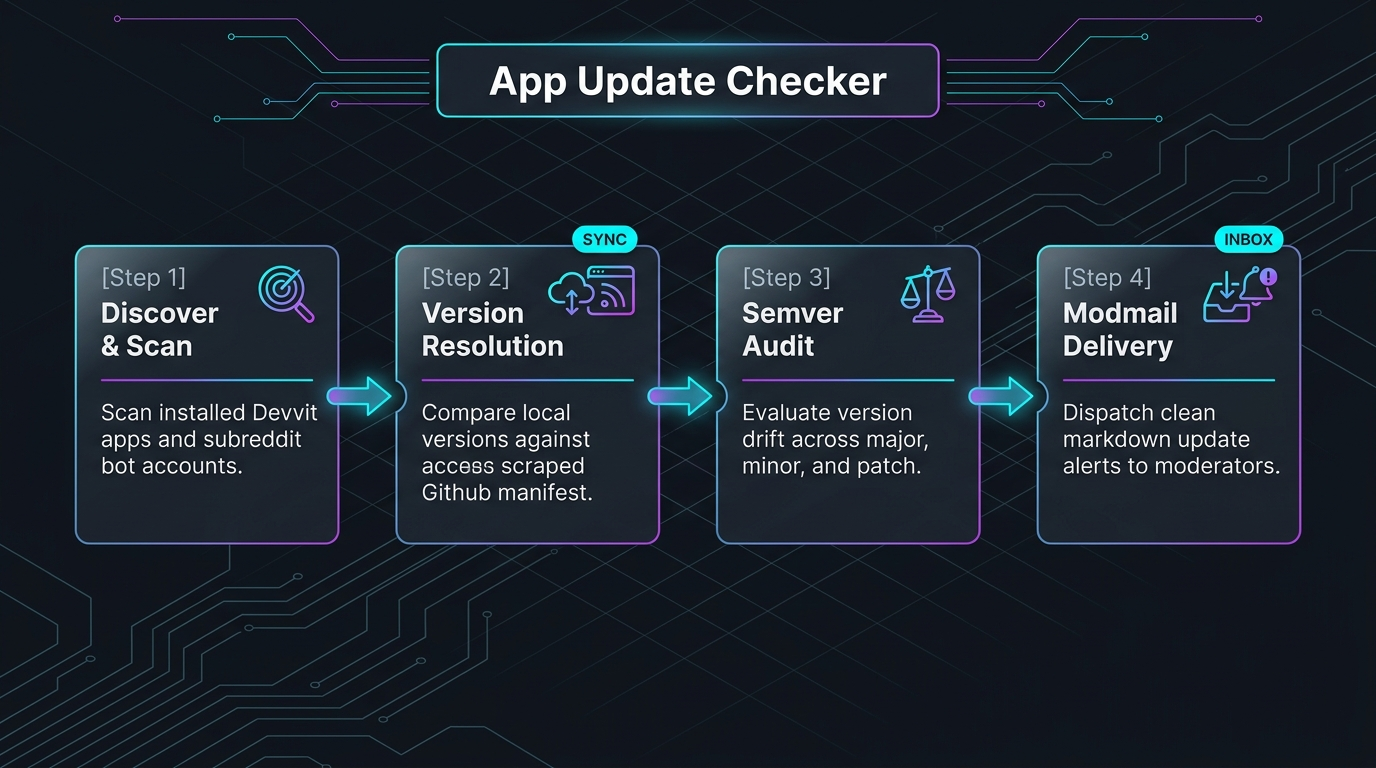
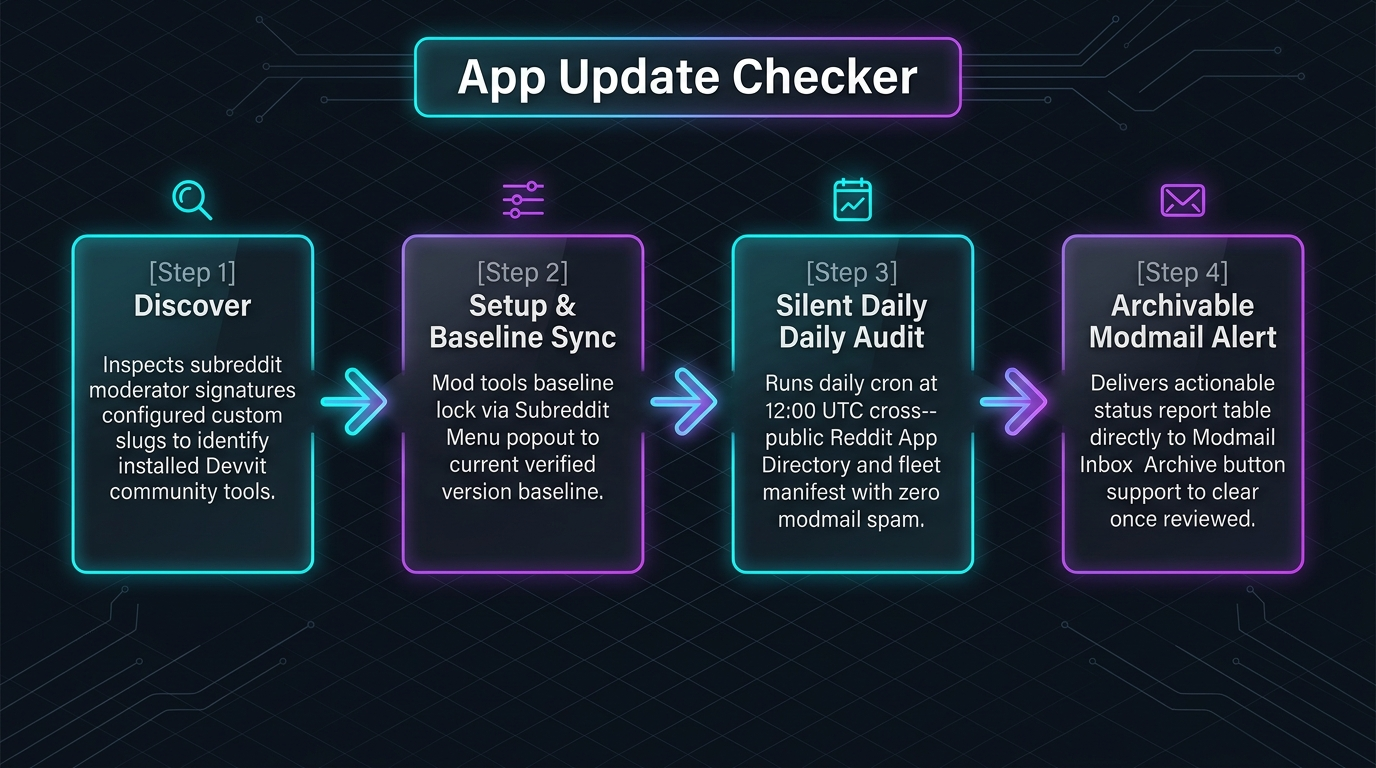
chore: update assets for app-update-checker v0.0.81

diff --git a/app-update-checker/readme.html b/app-update-checker/readme.html
@@ -13,7 +13,7 @@
 <li><strong>Automated backend directory scraper</strong>: Continuously monitors and extracts release versions from public Reddit App Directory listings into an up-to-date manifest feed.</li>
 <li><strong>Clear, verified onboarding</strong>: Guides your mod team to update apps in Mod Tools and sync baseline tracking on initial install.</li>
 <li><strong>Silent daily audits</strong>: Runs a lightweight background check every day at 12:00 UTC with zero modmail spam—alerts are sent only when a new update is published.</li>
-<li><strong>Modmail upgrade alerts</strong>: Delivers clean, text-formatted summary tables with direct links to update pages on the Reddit App Directory.</li>
+<li><strong>Archivable Modmail alerts</strong>: Delivers clean, text-formatted summary tables directly to your Modmail Inbox where they can be archived to keep your inbox clean.</li>
 <li><strong>Universal directory support</strong>: Cross-references against 150+ public apps in the Reddit App Directory and official developer manifests.</li>
 <li><strong>Consolidated moderator controls</strong>: Access on-demand scans, baseline syncing, and cache resets from a single <strong>App Update Checker</strong> menu popout.</li>
 </ul>
@@ -28,7 +28,7 @@
 <li><strong>Check for App Updates</strong>: Run an immediate scan and receive a full status report in Modmail.</li>
 <li><strong>Sync All Apps as Updated</strong>: Lock in current versions as the baseline after updating apps in Mod Tools.</li>
 <li><strong>Reset App Cache</strong>: Clear cached data and trigger a fresh discovery scan.</li>
-<li><strong>Native Settings Control</strong>: Specify custom app slugs to monitor, toggle unlisted bot reporting, and configure check schedules in App Settings.</li>
+<li><strong>Native Settings Control</strong>: Specify custom app slugs to monitor, toggle unlisted bot reporting, select your preferred Modmail delivery destination (Inbox, Discussions, or Notifications), and configure check schedules in App Settings.</li>
 </ul>
 <p>---</p>
 <h2>How It Works</h2>
@@ -53,7 +53,7 @@
 <li><strong>Redis-Cached Feed Delivery</strong>: The directory snapshot is fetched from `raw.githubusercontent.com` and cached in Redis for fast, lightweight checks within platform limits.</li>
 <li><strong>Deterministic Semver Comparison</strong>: Standard semver parsing reliably detects patch, minor, and major version increments without false positives.</li>
 <li><strong>Scheduled Cron Runner</strong>: Executes automated checks on a daily cron schedule at 12:00 UTC.</li>
-<li><strong>Modmail Markdown Formatter</strong>: Formats clean markdown tables with direct links to app install pages.</li>
+<li><strong>Archivable Modmail Deliveries</strong>: Formats clean markdown tables delivered directly to your Modmail Inbox with native archive support, preventing clutter.</li>
 </ul>
 <p>---</p>
 <h2>Designed to Assist Moderators</h2>

diff --git a/app-update-checker/wiki.html b/app-update-checker/wiki.html
@@ -1,7 +1,7 @@
 <h1>App Update Checker</h1>
 
 <p>Category: Utility<br>
-Version: v0.0.80<br>
+Version: v0.0.81<br>
 Visibility: Public<br>
 Summary: Automated version tracking and release notification engine for Reddit Devvit apps. Daily silent audits and modmail alerts.</p>
 
@@ -38,6 +38,7 @@ Summary: Automated version tracking and release notification engine for Reddit D
 <li>auto_check_enabled: Enable Daily Auto Check (boolean, default: true). Automatically checks for app updates daily at 12:00 UTC. Modmail is only sent when a new update is found.</li>
 <li>include_unlisted_bots: Include Unlisted / Custom Bots in Manual Reports (boolean, default: true). Include detected moderator bots that are not in the public Reddit App Directory in manual reports as informational entries.</li>
 <li>extra_slugs: Extra App Slugs to Track (paragraph, default: -). Optional. Comma or newline-separated app slugs to monitor (e.g. comment-mop, bot-bouncer, sticky-pro). Add a baseline with slug:version (e.g. domain-guard:0.0.38).</li>
+<li>modmail_destination: Modmail Delivery Destination (select, default: inbox). Choose where app update reports are delivered. "Modmail Inbox" allows reports to be archived to remove them from view once reviewed.</li>
 </ul>
 
 <h2>Automation Capabilities</h2>
@@ -46,7 +47,7 @@ Summary: Automated version tracking and release notification engine for Reddit D
 <li>Attaches Removal Notes: No — Does not attach removal notes.</li>
 <li>Approves Content: No — Does not approve content.</li>
 <li>Removes or Filters Content: Yes — Removes or filters non-compliant submissions.</li>
-<li>Dispatches Modmail Alerts: No — Does not send modmail notifications.</li>
+<li>Dispatches Modmail Alerts: Yes — Sends notifications or summaries to modmail.</li>
 <li>Updates User or Post Flair: No — Does not update flair.</li>
 </ul>
 
@@ -73,11 +74,11 @@ Summary: Automated version tracking and release notification engine for Reddit D
 </ul>
 
 <h2>Version History</h2>
+<p>0.0.81 — 2026-09-13<br>
+Standard fleet synchronization and maintenance.</p>
+<p>0.0.80 — 2026-09-13<br>
+Feature: Added archivable Modmail delivery to standard Modmail Inbox (`createModInboxConversation`) with multi-tier API fallbacks (`createConversation`, `createModNotification`).; Feature: Added configurable `modmail_destination` setting allowing moderator teams to choose between Modmail Inbox (Archivable), Mod Discussions (Internal), and Mod Notifications (Read-Only).; Maintenance: Enhanced structured lifecycle logging to record destination channel and conversation IDs.</p>
 <p>0.0.79 — 2026-09-05<br>
-Standard fleet synchronization and maintenance.</p>
-<p>0.0.78 — 2026-09-02<br>
-Standard fleet synchronization and maintenance.</p>
-<p>0.0.77 — 2026-09-02<br>
 Standard fleet synchronization and maintenance.</p>
 
 <h2>Links</h2>

diff --git a/app-update-checker/wiki.md b/app-update-checker/wiki.md
@@ -1,7 +1,7 @@
 # App Update Checker
 
 Category: Utility  
-Version: v0.0.80  
+Version: v0.0.81  
 Visibility: Public  
 Summary: Automated version tracking and release notification engine for Reddit Devvit apps. Daily silent audits and modmail alerts.
 
@@ -33,13 +33,14 @@ Subreddit moderators configure the app in Mod Tools -> App Settings.
 - auto_check_enabled: Enable Daily Auto Check (boolean, default: true). Automatically checks for app updates daily at 12:00 UTC. Modmail is only sent when a new update is found.
 - include_unlisted_bots: Include Unlisted / Custom Bots in Manual Reports (boolean, default: true). Include detected moderator bots that are not in the public Reddit App Directory in manual reports as informational entries.
 - extra_slugs: Extra App Slugs to Track (paragraph, default: -). Optional. Comma or newline-separated app slugs to monitor (e.g. comment-mop, bot-bouncer, sticky-pro). Add a baseline with slug:version (e.g. domain-guard:0.0.38).
+- modmail_destination: Modmail Delivery Destination (select, default: inbox). Choose where app update reports are delivered. "Modmail Inbox" allows reports to be archived to remove them from view once reviewed.
 
 ## Automation Capabilities
 - Submits Automated Comments: No — Does not submit automated comments.
 - Attaches Removal Notes: No — Does not attach removal notes.
 - Approves Content: No — Does not approve content.
 - Removes or Filters Content: Yes — Removes or filters non-compliant submissions.
-- Dispatches Modmail Alerts: No — Does not send modmail notifications.
+- Dispatches Modmail Alerts: Yes — Sends modmail notifications.
 - Updates User or Post Flair: No — Does not update flair.
 
 ## Data Storage
@@ -60,13 +61,15 @@ This app utilizes Reddit Redis storage for state management, caching, and rate l
 - Ensure all required app settings and API keys are properly configured in Mod Tools.
 
 ## Version History
+0.0.81 — 2026-09-13
+- Standard fleet synchronization and maintenance.
+
+0.0.80 — 2026-09-13
+- Feature: Added archivable Modmail delivery to standard Modmail Inbox (`createModInboxConversation`) with multi-tier API fallbacks (`createConversation`, `createModNotification`).
+- Feature: Added configurable `modmail_destination` setting allowing moderator teams to choose between Modmail Inbox (Archivable), Mod Discussions (Internal), and Mod Notifications (Read-Only).
+- Maintenance: Enhanced structured lifecycle logging to record destination channel and conversation IDs.
+
 0.0.79 — 2026-09-05
-- Standard fleet synchronization and maintenance.
-
-0.0.78 — 2026-09-02
-- Standard fleet synchronization and maintenance.
-
-0.0.77 — 2026-09-02
 - Standard fleet synchronization and maintenance.
 
 ## Links

diff --git a/app-update-checker/README.md b/app-update-checker/README.md
@@ -19,7 +19,7 @@ App Update Checker ensures your subreddit's Devvit tools and moderation bots rem
 - **Automated backend directory scraper**: Continuously monitors and extracts release versions from public Reddit App Directory listings into an up-to-date manifest feed.
 - **Clear, verified onboarding**: Guides your mod team to update apps in Mod Tools and sync baseline tracking on initial install.
 - **Silent daily audits**: Runs a lightweight background check every day at 12:00 UTC with zero modmail spam—alerts are sent only when a new update is published.
-- **Modmail upgrade alerts**: Delivers clean, text-formatted summary tables with direct links to update pages on the Reddit App Directory.
+- **Archivable Modmail alerts**: Delivers clean, text-formatted summary tables directly to your Modmail Inbox where they can be archived to keep your inbox clean.
 - **Universal directory support**: Cross-references against 150+ public apps in the Reddit App Directory and official developer manifests.
 - **Consolidated moderator controls**: Access on-demand scans, baseline syncing, and cache resets from a single **App Update Checker** menu popout.
 
@@ -45,7 +45,7 @@ App Update Checker ensures your subreddit's Devvit tools and moderation bots rem
   - **Check for App Updates**: Run an immediate scan and receive a full status report in Modmail.
   - **Sync All Apps as Updated**: Lock in current versions as the baseline after updating apps in Mod Tools.
   - **Reset App Cache**: Clear cached data and trigger a fresh discovery scan.
-- **Native Settings Control**: Specify custom app slugs to monitor, toggle unlisted bot reporting, and configure check schedules in App Settings.
+- **Native Settings Control**: Specify custom app slugs to monitor, toggle unlisted bot reporting, select your preferred Modmail delivery destination (Inbox, Discussions, or Notifications), and configure check schedules in App Settings.
 
 ---
 
@@ -81,7 +81,7 @@ App Update Checker is engineered for resilient version resolution and lightweigh
 - **Redis-Cached Feed Delivery**: The directory snapshot is fetched from `raw.githubusercontent.com` and cached in Redis for fast, lightweight checks within platform limits.
 - **Deterministic Semver Comparison**: Standard semver parsing reliably detects patch, minor, and major version increments without false positives.
 - **Scheduled Cron Runner**: Executes automated checks on a daily cron schedule at 12:00 UTC.
-- **Modmail Markdown Formatter**: Formats clean markdown tables with direct links to app install pages.
+- **Archivable Modmail Deliveries**: Formats clean markdown tables delivered directly to your Modmail Inbox with native archive support, preventing clutter.
 
 ---
 
